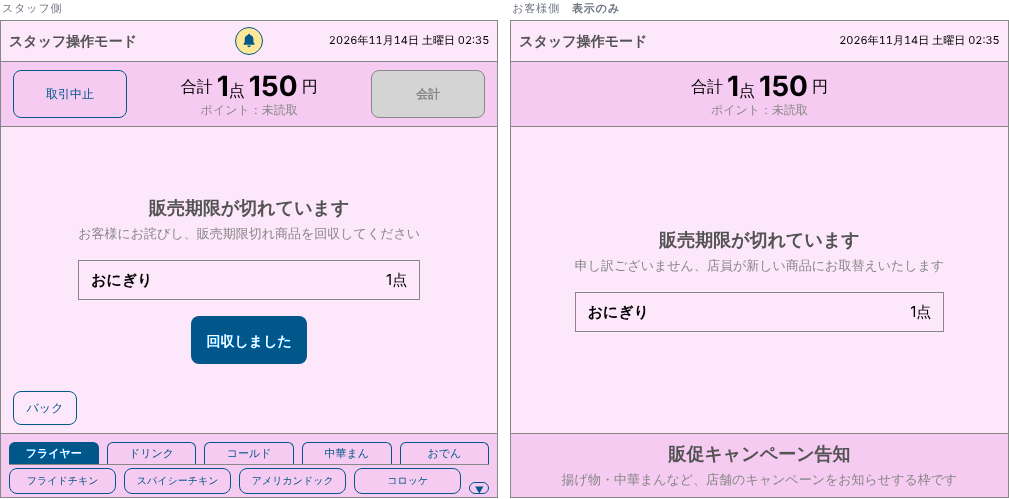
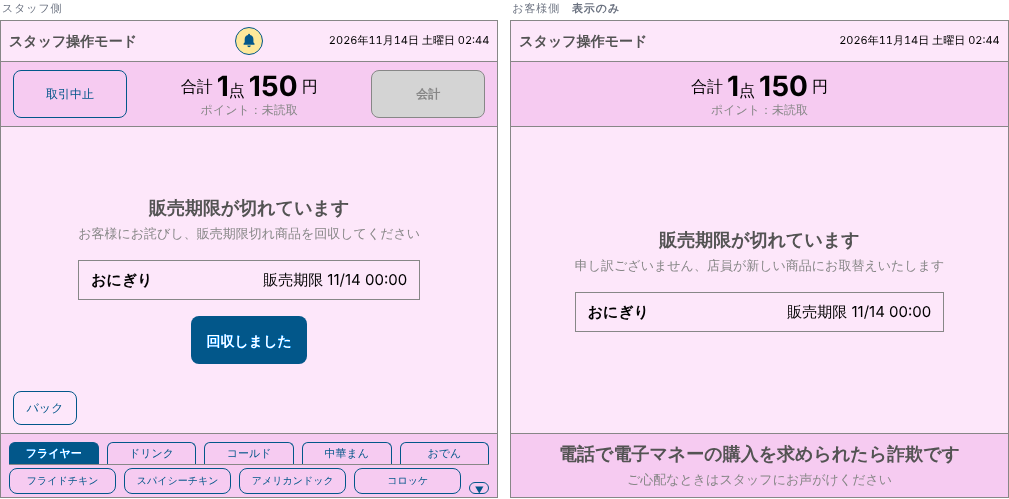
販売期限切れの回収案内は点数の代わりに販売期限を出す（回収は常に一点で自明）
Claude-Session: https://claude.ai/code/session_01UEhnZeHTmT3C1d63jmNmpP

diff --git a/pos/web/src/view.ts b/pos/web/src/view.ts
@@ -253,7 +253,8 @@ function expiredScreen(reg: number, side: Side, lines: ExpiredLine[], st: Gate |
   return (
     collectScreen(
       "販売期限が切れています",
-      [{ name: l.name, qty: l.qty }],
+      // 期限切れの品はスキャンした瞬間に一点ずつ止まるので、回収は常に一点。点数は出さず、販売期限を出す
+      [{ name: l.name, note: l.dates ? `販売期限 ${expiryLabel(l.dates.sell_by_min, l.fresh)}` : "" }],
       staff ? "お客様にお詫びし、販売期限切れ商品を回収してください" : "申し訳ございません、店員が新しい商品にお取替えいたします",
       st ? btn("回収しました", { type: "remove_line", register: reg, side, line_id: l.id }, st, "primary") : "",
     ) + back
@@ -261,11 +262,11 @@ function expiredScreen(reg: number, side: Side, lines: ExpiredLine[], st: Gate |
 }
 
 /** 回収イベント（年確で販売できない商品・お渡し済みFFの取り消し・販売期限切れ）の共通の画面。
- *  縦横中央に、大きなテキスト＝なぜ回収するか／回収する品の一覧／小さなテキスト＝スタッフへの指示またはお客様へのお詫び、
+ *  縦横中央に、大きなテキスト＝なぜ回収するか／回収する品の一覧（点数、販売期限切れは販売期限）／小さなテキスト＝スタッフへの指示またはお客様へのお詫び、
  *  スタッフ側だけ「回収しました」 */
-function collectScreen(head: string, items: { name: string; qty: number }[], sub: string, action = ""): string {
+function collectScreen(head: string, items: { name: string; qty?: number; note?: string }[], sub: string, action = ""): string {
   const list = items.length
-    ? `<ul class="collect-list">${items.map((c) => `<li><b>${esc(c.name)}</b><span>${c.qty}点</span></li>`).join("")}</ul>`
+    ? `<ul class="collect-list">${items.map((c) => `<li><b>${esc(c.name)}</b><span>${esc(c.note ?? `${c.qty}点`)}</span></li>`).join("")}</ul>`
     : "";
   return `<div class="point-screen collect">${msg(esc(head), esc(sub))}${list}${action ? `<div class="point-choices">${action}</div>` : ""}</div>`;
 }
